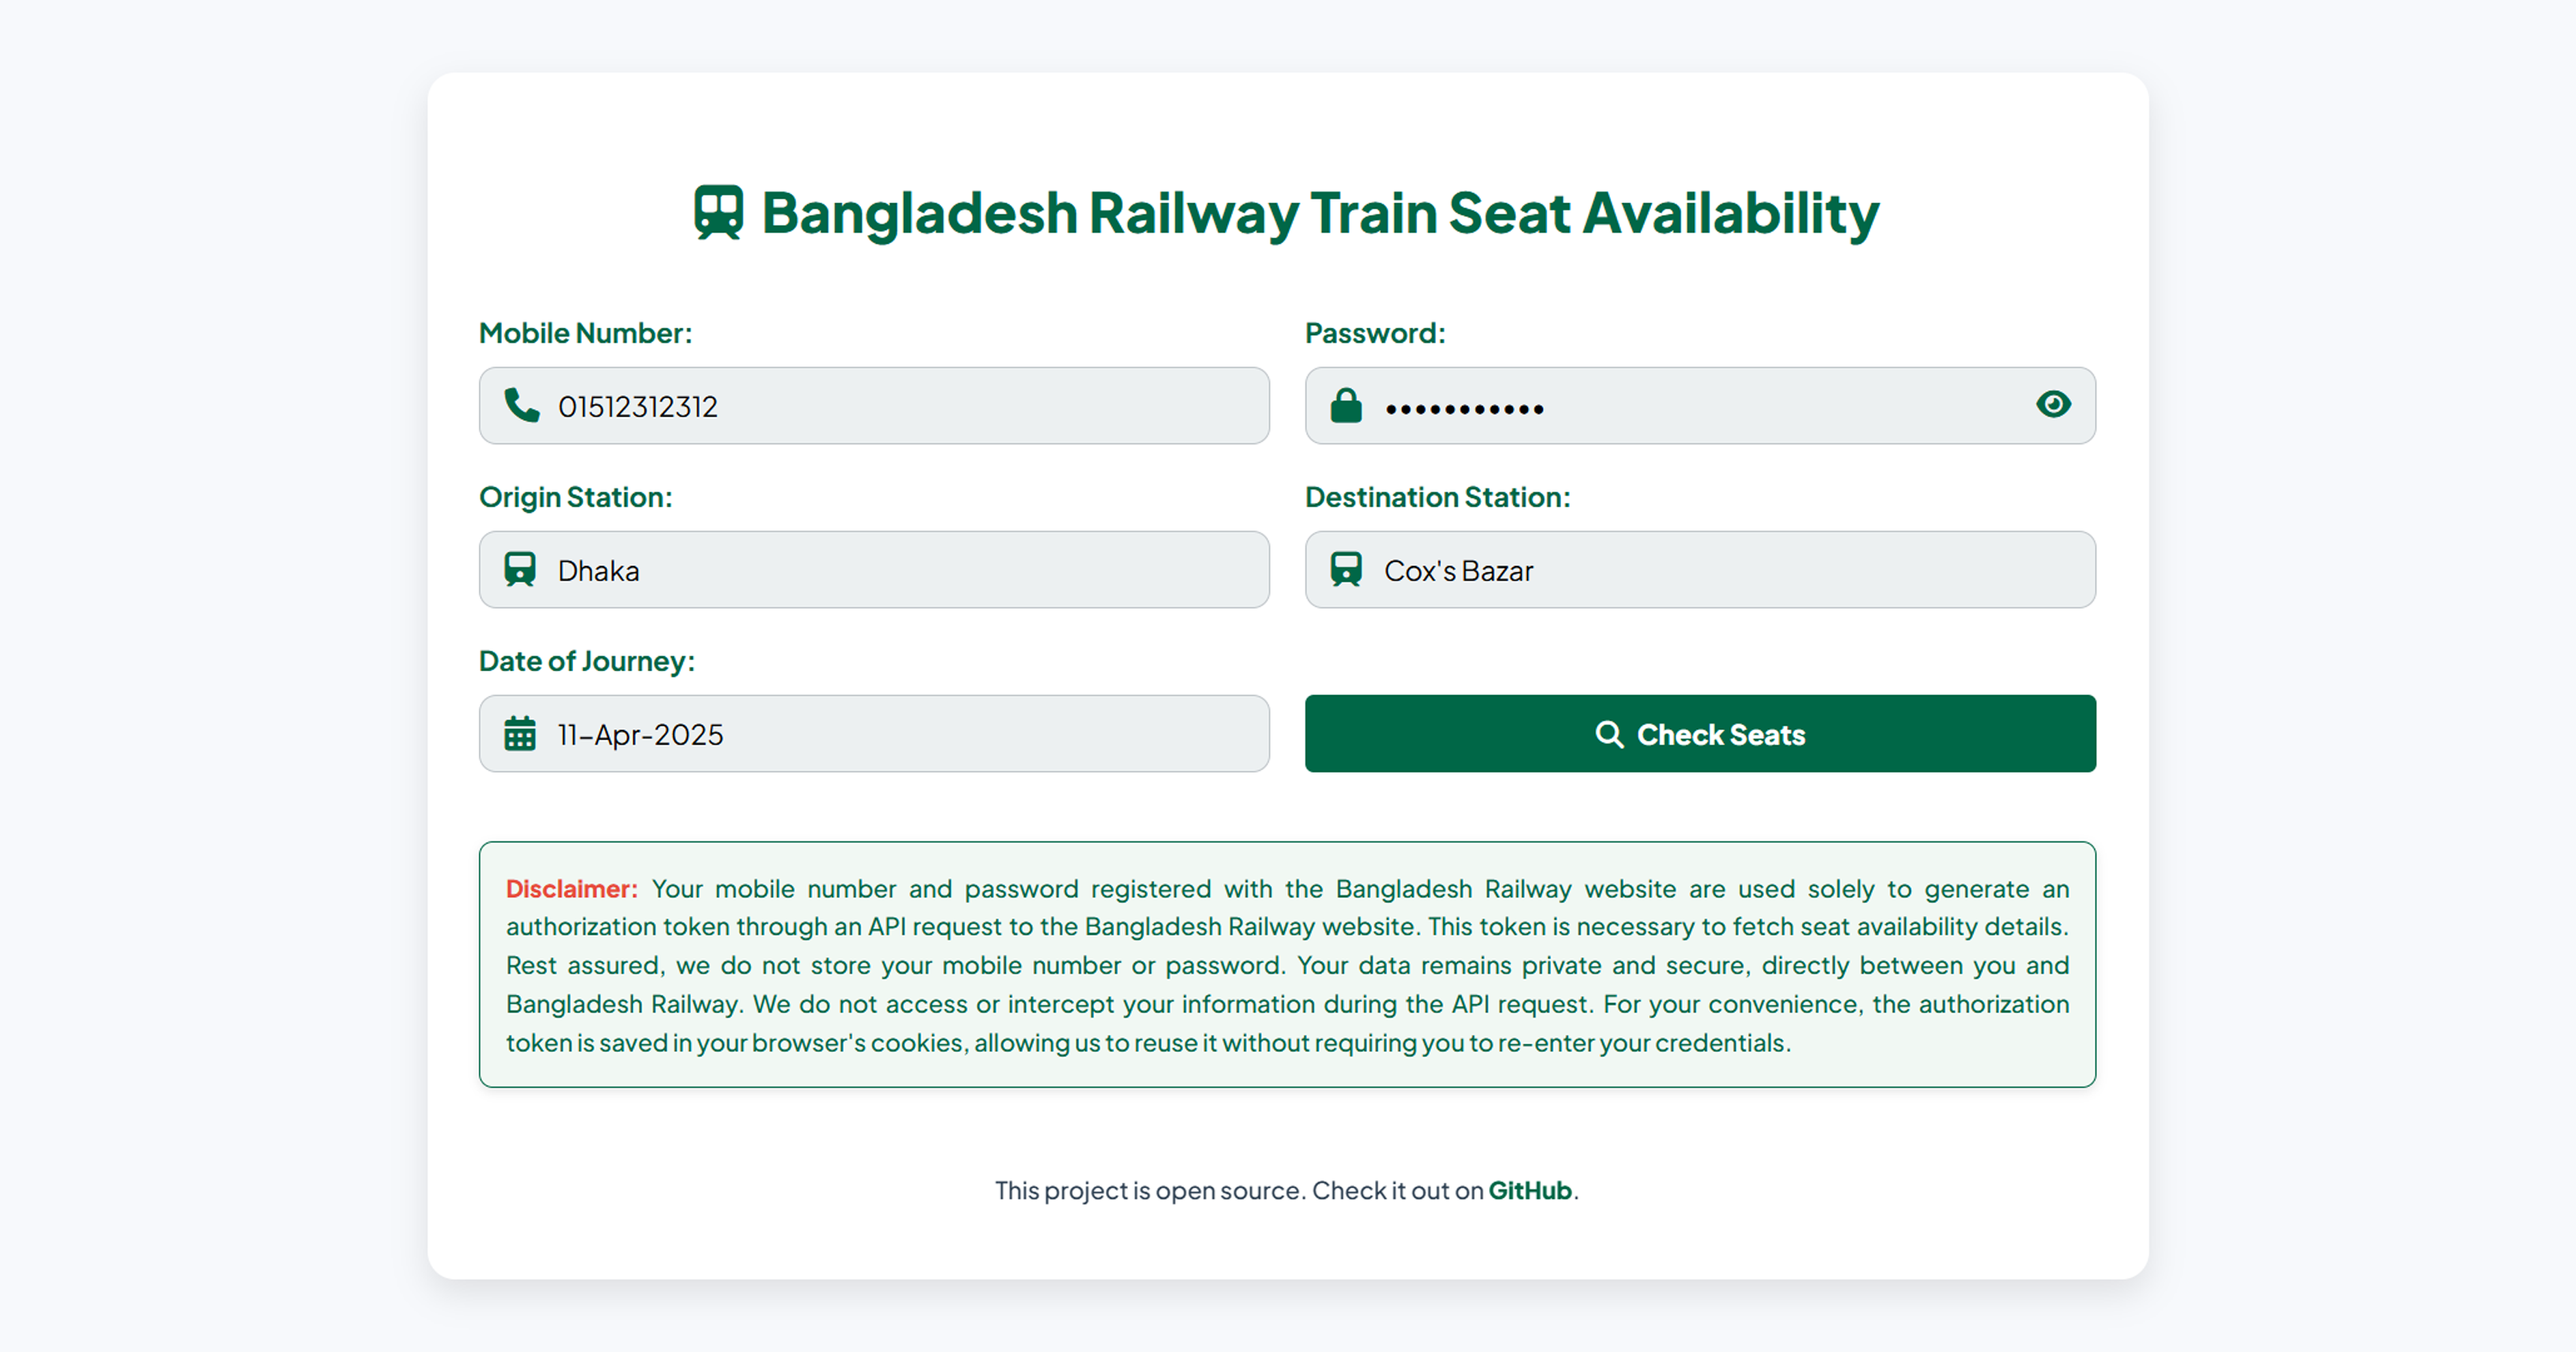
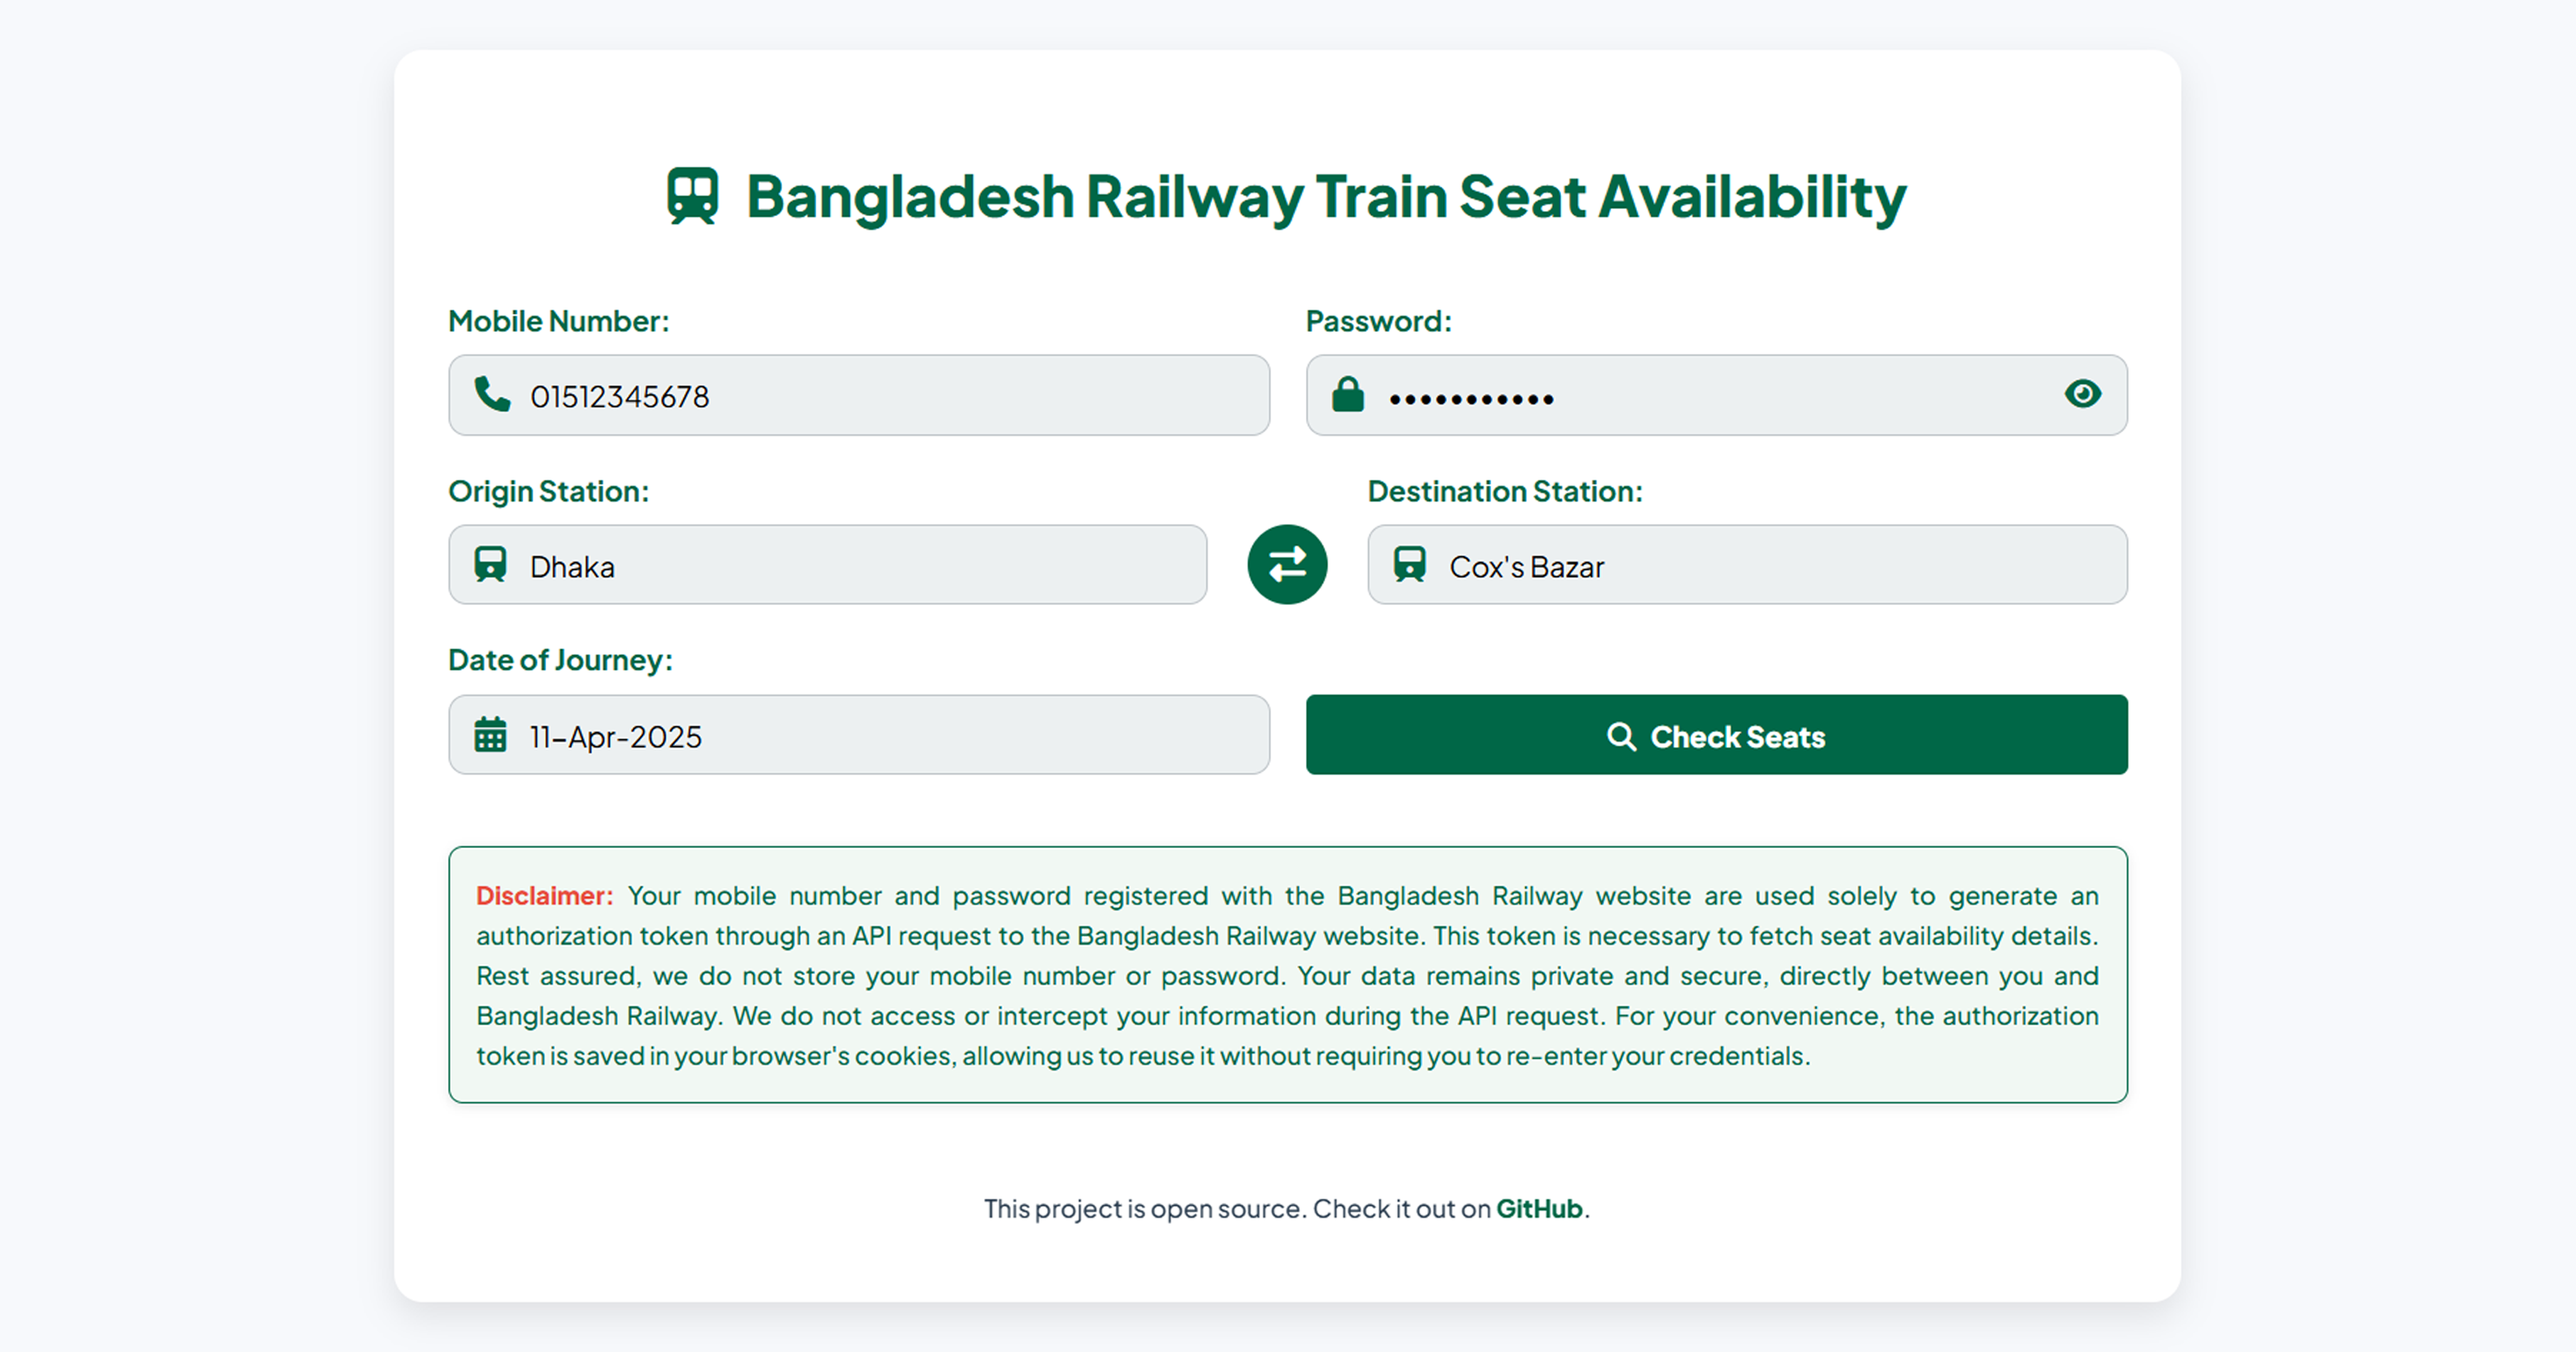
Several UI improvements and bug fixed

diff --git a/static/styles.css b/static/styles.css
@@ -373,12 +373,22 @@ input[type="number"] {
 }
 
 .error {
+    display: flex;
+    align-items: center;
+    justify-content: center;
     color: #e74c3c;
-    background-color: #fdecea;
-    padding: 10px;
-    border-radius: 5px;
-    margin-top: 10px;
-    animation: fadeIn 1s ease-in-out;
+    text-align: center;
+    margin: 20px 0;
+    font-size: 16px;
+    font-weight: 600;
+    animation: fadeIn 0.6s ease-in-out;
+}
+
+.error-icon {
+    color: #e74c3c;
+    font-size: 18px;
+    margin-right: 8px;
+    vertical-align: middle;
 }
 
 .animated-fade-in {
@@ -532,6 +542,30 @@ button:hover {
     transform: translateX(5px);
 }
 
+.swap-icon-wrapper {
+    display: flex;
+    align-items: center;
+    justify-content: center;
+    background-color: rgb(0, 103, 71);
+    border-radius: 50%;
+    width: 45px;
+    height: 45px;
+    cursor: pointer;
+    transition: transform 0.3s ease, background-color 0.3s;
+    margin: 0 2px;
+    align-self: flex-end;
+}
+
+.swap-icon {
+    font-size: 20px;
+    color: #ffffff;
+}
+
+.swap-icon-wrapper:hover {
+    transform: rotate(180deg) scale(1.1);
+    background-color: rgb(0, 85, 58);
+}
+
 .train-card {
     background-color: #ffffff;
     margin-bottom: 25px;
@@ -548,12 +582,16 @@ button:hover {
 }
 
 .train-header {
+    text-align: center;
+    background-color: #f2f6fa;
+    padding: 20px;
     margin-bottom: 20px;
+    border-radius: 8px 8px 0 0;
 }
 
 .train-header h2 {
     font-size: 22px;
-    margin-bottom: 5px;
+    margin-bottom: 20px;
     color: #006747;
 }
 
@@ -565,6 +603,14 @@ button:hover {
 
 .train-header p i {
     margin-right: 5px;
+}
+
+.train-separator {
+    width: 100%;
+    height: 1px;
+    background-color: #006747;
+    margin: 10px 0;
+    border-radius: 1px;
 }
 
 .timing-info {
@@ -882,6 +928,15 @@ footer a:hover {
 
     h3 {
         font-size: 16px;
+    }
+
+    .swap-icon-wrapper {
+        margin: 5px auto;
+        transform: rotate(90deg);
+    }
+
+    .swap-icon-wrapper:hover {
+        transform: rotate(270deg);
     }
 
     .train-card {

diff --git a/templates/index.html b/templates/index.html
@@ -38,12 +38,14 @@
         {% if token %}
         <form action="/clear_token" method="POST" style="display: inline;">
             <button type="submit" class="btn-clear">
-                <i class="fas fa-times-circle"></i> Clear Authorization Token
+                <i class="fas fa-trash-alt"></i> Delete Auth Token
             </button>
         </form>
         {% endif %}
         {% if error %}
-        <div class="error animated-fade-in">{{ error }}</div>
+        <div class="error animated-fade-in">
+            <i class="fas fa-exclamation-circle error-icon"></i> {{ error }}
+        </div>
         {% endif %}
         <form action="/check_seats" method="POST" onsubmit="return validateForm(event)">
             {% if not token %}
@@ -88,6 +90,11 @@
                     </div>
                     <span class="error-message" id="origin-error">Origin Station is required</span>
                 </div>
+
+                <div class="swap-icon-wrapper" onclick="swapStations()">
+                    <i class="fas fa-exchange-alt swap-icon"></i>
+                </div>
+
                 <div class="form-group">
                     <label for="destination">Destination Station:</label>
                     <div class="input-with-icon" style="position: relative;">

diff --git a/templates/results.html b/templates/results.html
@@ -15,11 +15,11 @@
 <body>
     <div class="container">
         <h1>
-            <i class="fas fa-train"></i>Seat Availability
+            <i class="fas fa-train"></i>Seat Availability Info
         </h1>
         <form action="/clear_token" method="POST" style="display: inline;">
             <button type="submit" class="btn-clear">
-                <i class="fas fa-times-circle"></i> Clear Authorization Token
+                <i class="fas fa-trash-alt"></i> Delete Auth Token
             </button>
         </form>
 
@@ -33,6 +33,7 @@
         <div class="train-card animated-fade-in">
             <div class="train-header">
                 <h2><i class="fas fa-subway"></i> {{ train }}</h2>
+                <div class="train-separator"></div>
                 <p>
                     <i class="fas fa-route"></i>
                     <strong>Route:</strong> {{ details['from_station'] }} - {{ details['to_station'] }}

diff --git a/static/js/script.js b/static/js/script.js
@@ -9,6 +9,17 @@ function showLoaderAndSubmit(event) {
     }, 100);
 }
 
+function swapStations() {
+    const originInput = document.getElementById('origin');
+    const destinationInput = document.getElementById('destination');
+
+    if (originInput && destinationInput) {
+        const tempValue = originInput.value;
+        originInput.value = destinationInput.value;
+        destinationInput.value = tempValue;
+    }
+}
+
 function validateForm(event) {
     let isValid = true;
 

diff --git a/app.py b/app.py
@@ -17,7 +17,7 @@ def fetch_token(phone_number, password):
     try:
         response = requests.post(TOKEN_API_URL, json=payload)
         if response.status_code == 422:
-            raise Exception("Wrong credentials provided.")
+            raise Exception("Mobile Number or Password is incorrect.")
         response.raise_for_status()
         data = response.json()
         token = data["data"]["token"]
@@ -120,15 +120,19 @@ def check_seats():
         try:
             result = detailsSeatAvailability(config)
         except Exception as e:
-            if "Token expired" in str(e) or "unauthorized" in str(e).lower():
+            error_msg = str(e)
+            if "Token expired" in error_msg or "unauthorized" in error_msg.lower():
                 @after_this_request
                 def clear_cookie(response):
                     response.delete_cookie('token')
                     return response
-
                 error = "Authorization token expired. Please log in again."
-                session['error'] = error
-                return redirect(url_for('home'))
+            elif "422 error occurred" in error_msg:
+                error = "An error occurred while fetching seat details. Please retry with a different account."
+            else:
+                error = "An error occurred while fetching seat details."
+            session['error'] = error
+            return redirect(url_for('home'))
 
         if "error" in result:
             error = result["error"]

diff --git a/detailsSeatAvailability.py b/detailsSeatAvailability.py
@@ -23,6 +23,8 @@ def get_seat_layout(trip_id: str, trip_route_id: str) -> Tuple[List[str], List[s
         response = requests.get(url, headers=headers, params=params)
         if response.status_code == 401:
             raise Exception("Token expired or unauthorized")
+        if response.status_code == 422:
+            raise Exception("422 error occurred")
         response.raise_for_status()
         data = response.json()
         seat_layout = data.get("data", {}).get("seatLayout", [])
@@ -41,6 +43,8 @@ def get_seat_layout(trip_id: str, trip_route_id: str) -> Tuple[List[str], List[s
     except requests.RequestException as e:
         if response.status_code == 401:
             raise Exception("Token expired or unauthorized")
+        if response.status_code == 422:
+            raise Exception("422 error occurred")
         print(f"{Fore.RED}Failed to fetch seat layout: {e}")
         return [], [], 0, 0
 
